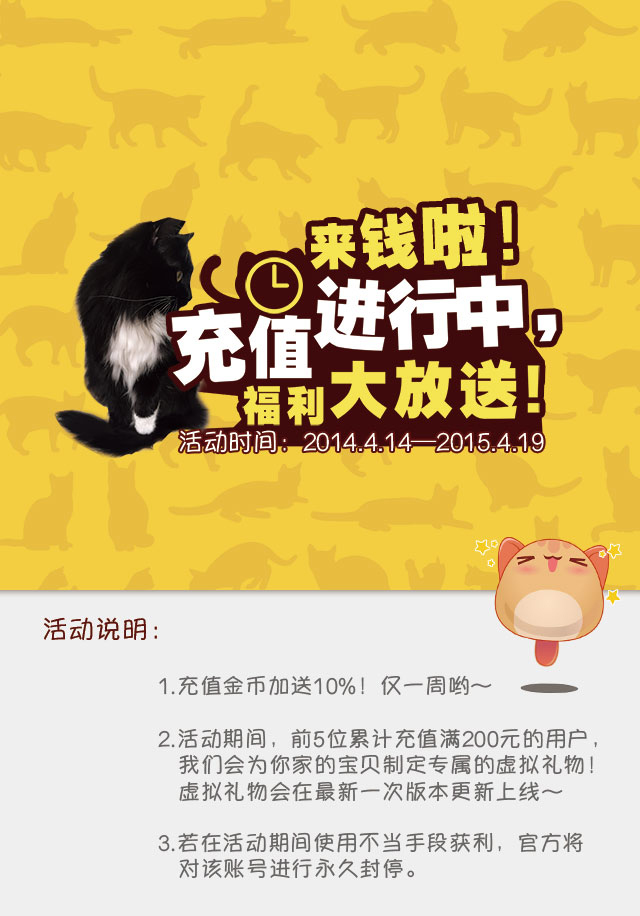
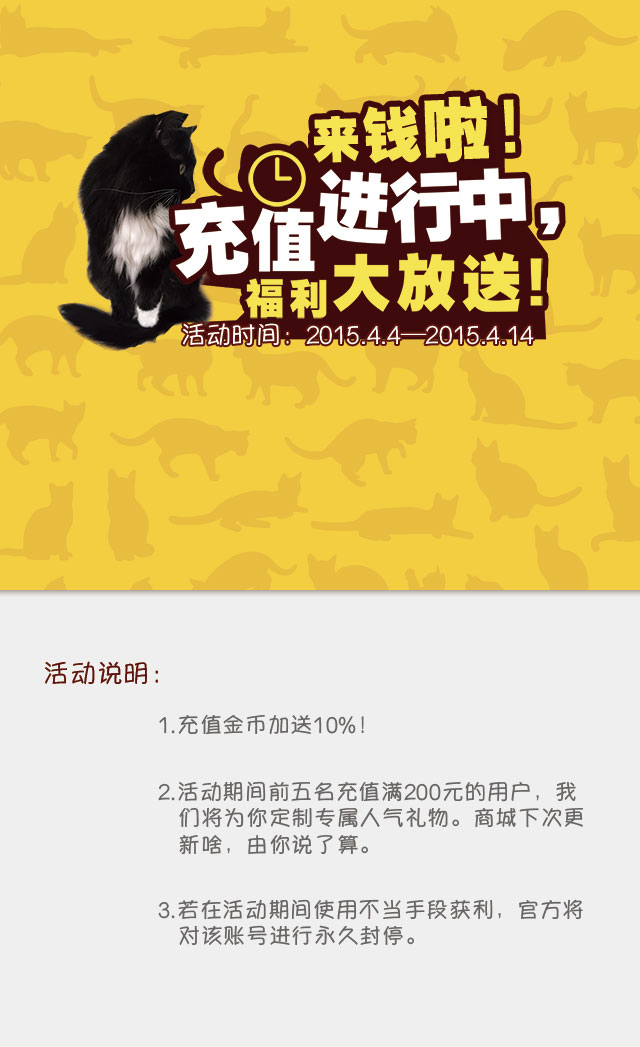
充值页面修改

diff --git a/server/dc/protected/views/social/pay_active.php b/server/dc/protected/views/social/pay_active.php
@@ -6,14 +6,23 @@
 	<title>充值活动</title>
 	<style>
 		*{padding: 0;margin: 0;}
+		body{background: #efefef;}
 		.wrapper{width: 640px;margin: 0 auto;text-align: center;
-			background-color: #efefef;}
-		.pay_active_btn{margin-bottom: 50px;margin-top: 20px;}
+			}
+		.pay_active_btn{position: absolute;left: center;margin-left: -190px;
+			top:420px;}
+
 		@media only screen and (min-width: 300px) and (max-width: 640px){
+
 			.wrapper{width: 100%;}
 			.pay_active{width: 100%;height: auto;}
-			.pay_active_btn{width: 80%;height: auto;
-				margin-bottom: 30px;margin-top: 10px;}
+			.pay_active_btn{width: 70%;height: auto;
+				margin-left:-35%;top:35%;}
+		}
+
+		@media only screen and (min-height: 480px) and (max-height: 540px){
+			.pay_active_btn{width: 70%;height: auto;
+				margin-left:-35%;top:45%;}
 		}
 
 	</style>
